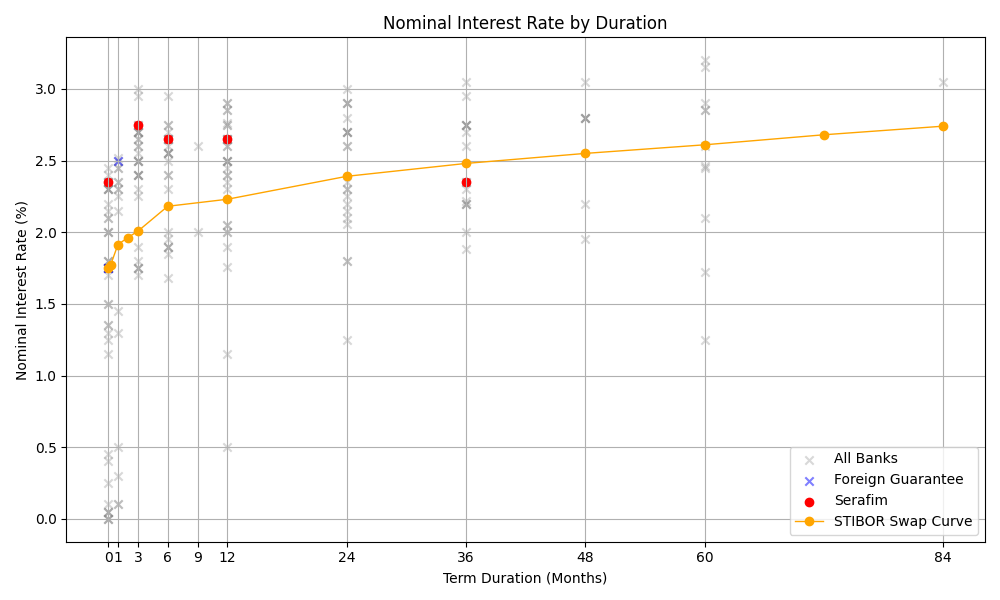
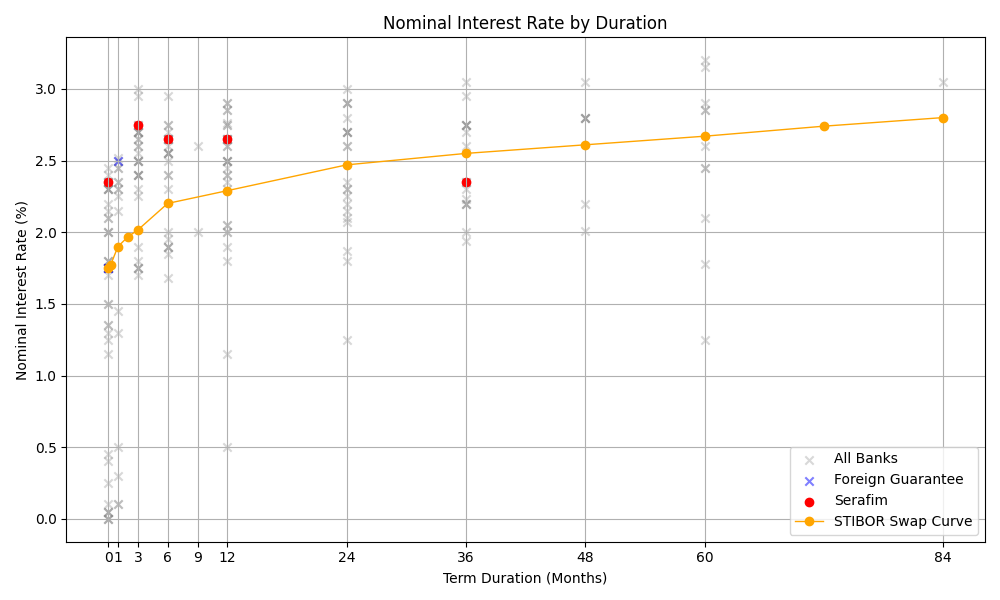
up

Changed region(s): [[0.155, 0.18, 0.961, 0.36], [0.124, 0.36, 0.155, 0.39], [0.093, 0.39, 0.124, 0.42]]

diff --git a/Serafim/index.html b/Serafim/index.html
@@ -81,7 +81,7 @@
 
     <h1>Competitor Overview - Serafim</h1>
     <div style="text-align: right; color: #555; font-size: 0.9em;">
-        Updated: 2026-06-02
+        Updated: 2026-06-03
     </div>
     
     <!-- Tab buttons -->
@@ -354,7 +354,7 @@
       <td>-</td>
       <td>-</td>
       <td>-</td>
-      <td>2.76 (+0.16)</td>
+      <td>2.76</td>
       <td>-</td>
       <td>-</td>
       <td>-</td>
@@ -632,13 +632,13 @@
       <td>0.05</td>
       <td>2.15</td>
       <td>1.75</td>
-      <td>1.68 (+0.02)</td>
+      <td>1.68</td>
       <td>-</td>
-      <td>1.76</td>
-      <td>2.06 (+0.04)</td>
-      <td>2.22 (+0.05)</td>
+      <td>1.80 (+0.04)</td>
+      <td>2.07 (+0.01)</td>
+      <td>2.23 (+0.01)</td>
       <td>-</td>
-      <td>2.46 (+0.05)</td>
+      <td>2.45 (-0.01)</td>
       <td>-</td>
     </tr>
     <tr>
@@ -691,23 +691,23 @@
       <td>1.90</td>
       <td>-</td>
       <td>2.05</td>
-      <td>1.80 (+0.05)</td>
-      <td>1.88 (+0.05)</td>
-      <td>1.95 (+0.05)</td>
-      <td>1.72 (+0.04)</td>
+      <td>1.87 (+0.07)</td>
+      <td>1.94 (+0.06)</td>
+      <td>2.01 (+0.06)</td>
+      <td>1.78 (+0.06)</td>
       <td>-</td>
     </tr>
     <tr>
       <th>Arktika Spar</th>
       <td>-</td>
       <td>-</td>
-      <td>2.65 (+0.55)</td>
-      <td>2.65 (-0.10)</td>
+      <td>2.65</td>
+      <td>2.65</td>
       <td>-</td>
-      <td>2.50 (-0.45)</td>
-      <td>2.70 (-0.25)</td>
-      <td>2.75 (-0.25)</td>
-      <td>2.80 (-0.25)</td>
+      <td>2.50</td>
+      <td>2.70</td>
+      <td>2.75</td>
+      <td>2.80</td>
       <td>-</td>
       <td>-</td>
     </tr>
@@ -766,31 +766,17 @@
   </thead>
   <tbody>
     <tr>
-      <th>Resurs Bank</th>
-      <td>2.00</td>
-      <td>2.30</td>
-      <td>-</td>
-      <td>-</td>
-      <td>-</td>
-      <td>2.76 (+0.16)</td>
-      <td>-</td>
-      <td>-</td>
-      <td>-</td>
-      <td>-</td>
-      <td>-</td>
-    </tr>
-    <tr>
       <th>Handelsbanken</th>
       <td>0.05</td>
       <td>2.15</td>
       <td>1.75</td>
-      <td>1.68 (+0.02)</td>
+      <td>1.68</td>
       <td>-</td>
-      <td>1.76</td>
-      <td>2.06 (+0.04)</td>
-      <td>2.22 (+0.05)</td>
+      <td>1.80 (+0.04)</td>
+      <td>2.07 (+0.01)</td>
+      <td>2.23 (+0.01)</td>
       <td>-</td>
-      <td>2.46 (+0.05)</td>
+      <td>2.45 (-0.01)</td>
       <td>-</td>
     </tr>
     <tr>
@@ -801,24 +787,10 @@
       <td>1.90</td>
       <td>-</td>
       <td>2.05</td>
-      <td>1.80 (+0.05)</td>
-      <td>1.88 (+0.05)</td>
-      <td>1.95 (+0.05)</td>
-      <td>1.72 (+0.04)</td>
-      <td>-</td>
-    </tr>
-    <tr>
-      <th>Arktika Spar</th>
-      <td>-</td>
-      <td>-</td>
-      <td>2.65 (+0.55)</td>
-      <td>2.65 (-0.10)</td>
-      <td>-</td>
-      <td>2.50 (-0.45)</td>
-      <td>2.70 (-0.25)</td>
-      <td>2.75 (-0.25)</td>
-      <td>2.80 (-0.25)</td>
-      <td>-</td>
+      <td>1.87 (+0.07)</td>
+      <td>1.94 (+0.06)</td>
+      <td>2.01 (+0.06)</td>
+      <td>1.78 (+0.06)</td>
       <td>-</td>
     </tr>
   </tbody>
